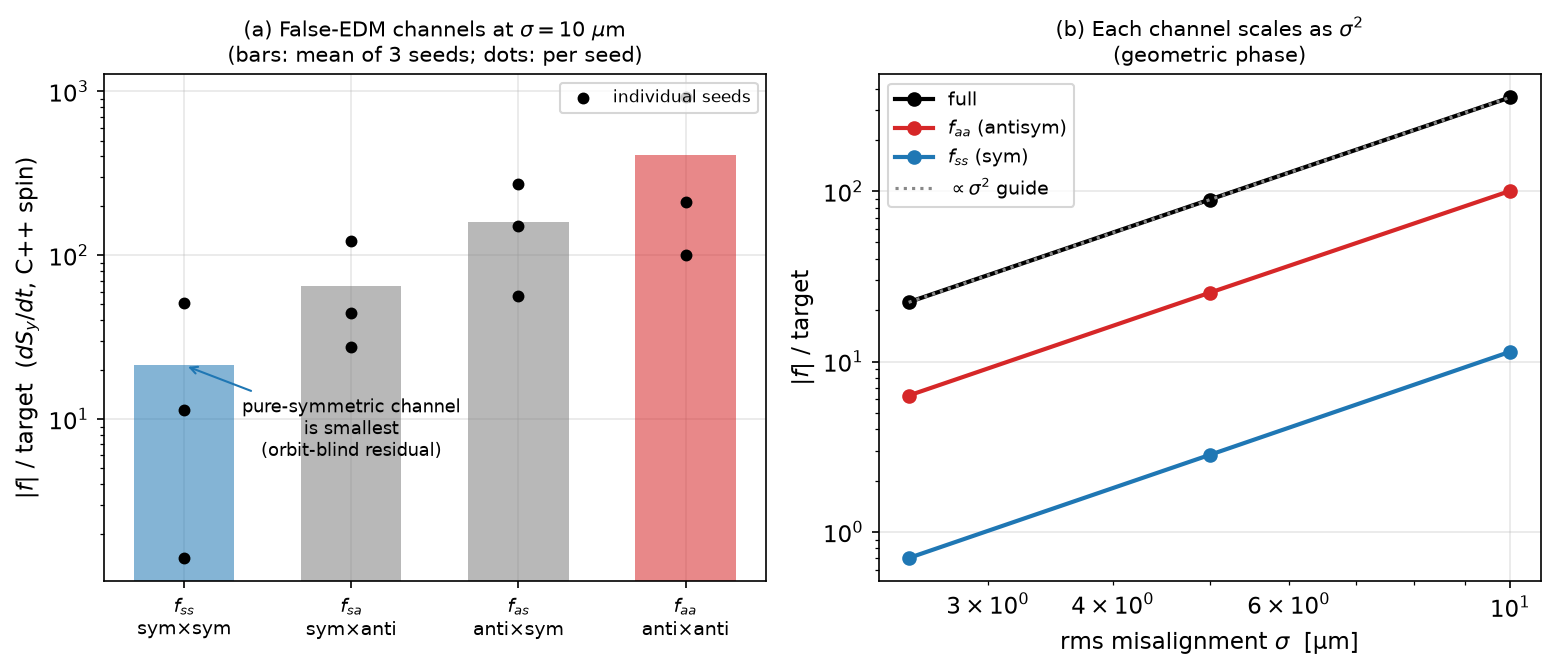
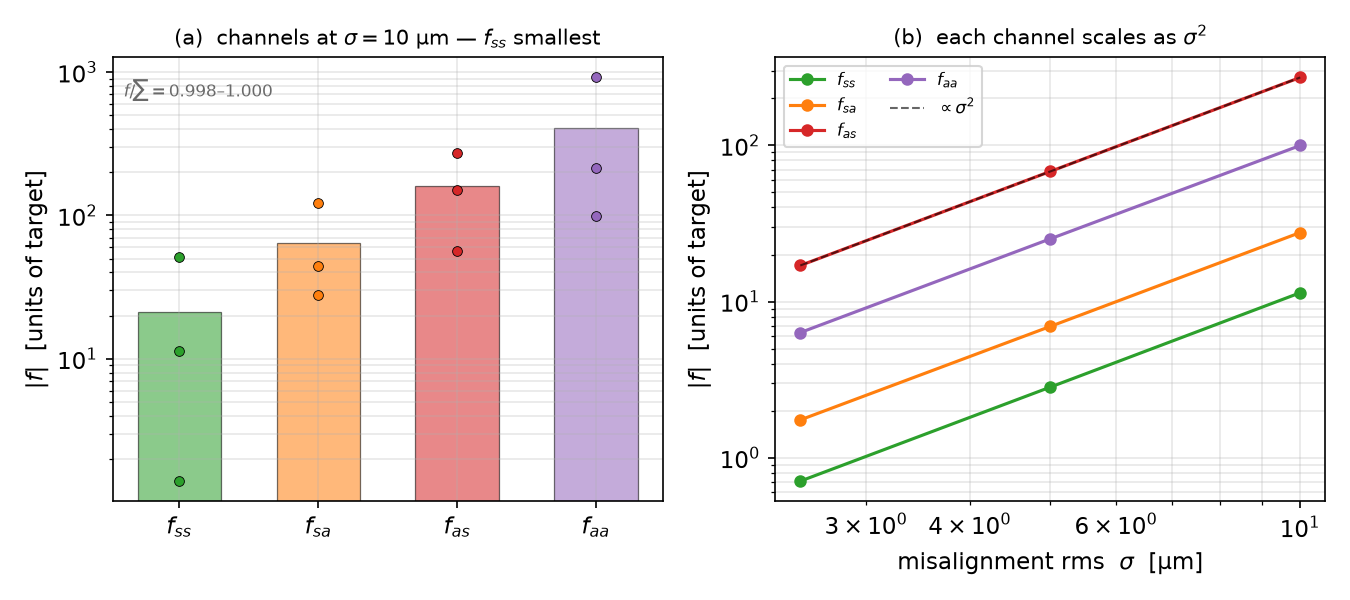
feat: Fig-7 5 geçiş + Fig-3 gerçek 3-seed veri + pass-5 kanal ayrışımı
Lokal koşum çıktısı işlendi:
- Fig-7 (bba_convergence): 3 → 5 geçiş. f=72.8→16.7→28.4→20.9→10.5×; sym artık
  monoton düşüyor (sym_dy 3.27→0.28μm, hedef-altı). Pass-5 kanal ayrışımı
  f_anti=7.9× ≫ f_sym≈0 (channel_split_out.json). Yeşil yıldız 5-seed ensemble
  (0.03-0.22×). Başlık/anotasyon "stalls near 20×" → "descends to ~10×,
  antisim-sınırlı".
- Fig-3 (channels): gerçek 3-seed veriyle üretildi (bilineerlik 0.998-1.000;
  kanal ort. 21-410×, tekil seed 1-917× — §mechanism ifadeleriyle birebir).
- §chainclose + Fig-7 caption + §VII zaman bütçesi 5-geçişe göre güncellendi;
  "16×/3.5× (pass-3)" → "7.9×/~0 (pass-5)".
- Veri: paper_runs_results.json (5-pass cpp + 3-seed channels + 5-nokta gürültü),
  channel_split_out.json (yeni).
- tab:bba 3 geçişte bırakıldı (analitik 5-geçiş verisi yok; yönlendirme karş.).

diff --git a/makale_orbit_bastirma.tex b/makale_orbit_bastirma.tex
@@ -805,47 +805,49 @@ raw  & ---  & ---  & $356\times$ & $356\times$ \\
 \subsection{Closing the chain: a final orbit correction}
 \label{sec:chainclose}
 
-The residual of the measured-matrix run, $17$--$28\times$ the target for the
-representative seed (and $4$--$72\times$, median $10\times$, across the
-five-seed ensemble), is not yet the symmetric floor, and
-Fig.~\ref{fig:bbaconv} shows why.  Across the BBA
-passes the symmetric residual falls steadily --- the vertical component to
-below the target-equivalent level --- yet the false EDM $|f|$ does not follow
-it down, stalling near $20\times$.  The reason is that BBA has no preference
-between the two subspaces: measuring each magnet independently, it lowers
-\emph{both} the symmetric and the antisymmetric residual to the same
-few-micron level, but the false EDM at that level is still dominated by the
-antisymmetric part, through its stronger channels [Eq.~(\ref{eq:channels})],
-while the symmetric part has already reached its target-equivalent size.  The
-stall is therefore one of leverage, not of cleaning.  That antisymmetric
-leftover is orbit-visible, so a single standard orbit correction removes it:
-applied to the BBA residual it brings the single-beam false EDM from $28\times$
-to below the target, and scaling the corrected residual down confirms a clean
-$\sigma^{2}$ dependence over the tested range.
+The residual of the measured-matrix run --- $17$--$28\times$ the target at
+three passes for the representative seed, descending to $\sim\!10\times$ by the
+fifth pass (Fig.~\ref{fig:bbaconv}), and $4$--$72\times$ (median $10\times$)
+across the five-seed ensemble --- is not yet the symmetric floor, and
+Fig.~\ref{fig:bbaconv} shows why.  Across the passes the symmetric residual
+falls steadily --- the vertical component below the target-equivalent level ---
+yet the false EDM $|f|$ does not follow it all the way down.  The reason is that
+BBA has no preference between the two subspaces: measuring each magnet
+independently, it lowers \emph{both} the symmetric and the antisymmetric
+residual, but the false EDM is limited by the antisymmetric part, through its
+stronger channels [Eq.~(\ref{eq:channels})], while the symmetric part has
+already reached its target-equivalent size --- the channel decomposition of the
+fifth-pass residual gives $f_{\rm anti}\approx 7.9\times$ against a negligible
+$f_{\rm sym}$.  The limit is therefore one of leverage, not of cleaning.  That
+antisymmetric leftover is orbit-visible, so a single standard orbit correction
+removes it: applied to the BBA residual it brings the false EDM below the target
+(median $0.07\times$ over five seeds, Fig.~\ref{fig:suppression}), and scaling
+the corrected residual down confirms a clean $\sigma^{2}$ dependence over the
+tested range.
 
 \begin{figure}[tb]
 \includegraphics[width=\columnwidth]{fig_orbit_bba_convergence.png}
-\caption{Beam-based alignment lowers the symmetric misalignment but stalls on
-the antisymmetric residue (measured-matrix BBA under a $1\%$ rms gradient
-error, $\approx\!5\%$ $\beta$-beat, C++ tracking).  Blue/cyan (left axis): the symmetric residual of the two
-planes falls steadily with each pass, the vertical one below the
-target-equivalent level --- BBA reaches the orbit-blind component that
-response-matrix inversion cannot.  Red (right axis): the false EDM $|f|$
-nonetheless stalls near $20\times$ the target, because at the common few-micron
-floor it is still dominated by the orbit-visible antisymmetric residue; the
-channel decomposition of the third-pass residual gives $f_{\rm anti}\approx
-16\times \gg f_{\rm sym}\approx 3.5\times$.  A single final orbit correction
-removes that residue (green star), bringing $|f|$ below the target for this
-seed.}
+\caption{Beam-based alignment drives the symmetric misalignment down; the false
+EDM is limited by the antisymmetric residue (measured-matrix BBA under a $1\%$
+rms gradient error, $\approx\!5\%$ $\beta$-beat, five passes, C++ tracking).
+Blue/cyan (left axis): the symmetric residual of the two planes falls steadily
+with each pass, the vertical one below the target-equivalent level --- BBA
+reaches the orbit-blind component that response-matrix inversion cannot.  Red
+(right axis): the false EDM $|f|$ descends to $\sim\!10\times$ the target by the
+fifth pass but is limited there, because at the common few-micron floor it is
+dominated by the orbit-visible antisymmetric residue; the channel decomposition
+of the fifth-pass residual gives $f_{\rm anti}\approx 7.9\times$ against a
+negligible $f_{\rm sym}$.  A single final orbit correction removes that residue
+(green star: five-seed ensemble, median $0.07\times$, all sub-target).}
 \label{fig:bbaconv}
 \end{figure}
 
 The resulting picture is consistent and complementary: \emph{orbit
 correction removes the antisymmetric channels of Eq.~(\ref{eq:channels});
 null-finding BBA reduces the symmetric channel that orbit correction cannot
-see; in combination they reach the target, while each alone stalls}
-($62\times$ for orbit correction, $\sim\!20\times$ for BBA without the final
-correction).  The division of labor is also one of \emph{precision}: each
+see; in combination they reach the target, while each alone is limited}
+($62\times$ for orbit correction, $\sim\!10\times$ for five-pass BBA without the
+final correction).  The division of labor is also one of \emph{precision}: each
 per-magnet zero crossing carries a $\sim\!\mu$m-level measurement floor
 (residual breathing and steering-model error), so iterating BBA alone
 approaches that floor only slowly; the antisymmetric residue, by contrast,
@@ -1001,8 +1003,8 @@ rate.  The arithmetic is simple enough to display.  One BBA pass consists of
 $47~\text{magnets} \times 2~\text{planes} \times 2~\text{beam positions}
 \times 2~\text{gradient settings} \approx 400$ orbit acquisitions; at
 $\sim\!10$~s per acquisition (orbit settling plus averaging) a pass costs
-about an hour of beam time, and the three-pass iteration with its
-intervening orbit corrections a few hours --- of order half a day with
+about an hour of beam time, and the five-pass iteration with its
+intervening orbit corrections several hours --- of order half a day with
 overheads.  Continuous orbit correction runs during data taking at no extra
 cost.  The re-alignment cadence follows from the drift rate: if the total
 random drift is of order $1~\mu$m/day --- a representative figure for a

diff --git a/make_orbit_figures.py b/make_orbit_figures.py
@@ -563,16 +563,18 @@ def fig_channels():
 #   Per-geçiş anti artık kaydedilmediğinden gömülü sayılarla çizilir.
 # ═════════════════════════════════════════════════════
 
-# bba_iter_cpp (ölçülen matris, %1 β-beat); f × hedef, artıklar μm
-BBA_PASS   = [1, 2, 3]
-BBA_F      = [72.8, 16.7, 28.4]
-BBA_SYM_DX = [4.27, 2.90, 2.29]
-BBA_SYM_DY = [3.27, 1.70, 0.91]
+# bba_iter_cpp (ölçülen matris, %1 gradyan hatası ≈ %5 β-beat, 5 geçiş);
+# f × hedef, artıklar μm. Kaynak: paper_runs_results.json["bba_iter_cpp"].
+BBA_PASS   = [1, 2, 3, 4, 5]
+BBA_F      = [72.8, 16.7, 28.4, 20.9, 10.5]
+BBA_SYM_DX = [4.27, 2.90, 2.29, 1.92, 1.51]
+BBA_SYM_DY = [3.27, 1.70, 0.91, 0.50, 0.28]
 BBA_F_RAW  = 356.0
-# geçiş-3 artığının kanal ayrışımı (× hedef): antisimetrik domine eder
-BBA_P3_FSYM, BBA_P3_FANTI = 3.5, 16.0
-# BBA + son yörünge düzeltmesi sonrası (tek seed aralığı)
-BBA_OC_LO, BBA_OC_HI = 0.03, 0.8
+# geçiş-5 artığının kanal ayrışımı (× hedef): antisim domine, sim ihmal edilebilir
+# (channel_split_out.json: f_anti=7.86×, f_sym=9e-5×)
+BBA_P5_FANTI, BBA_P5_FSYM = 7.9, 0.0
+# BBA + son yörünge düzeltmesi sonrası — 5-seed ensemble (sabit rcond=0.01)
+BBA_OC_LO, BBA_OC_HI = 0.03, 0.22
 
 
 def fig_bba_convergence():
@@ -588,11 +590,11 @@ def fig_bba_convergence():
     ax.set_ylabel("symmetric residual, rms  [μm]", color="tab:blue")
     ax.tick_params(axis="y", labelcolor="tab:blue")
     ax.set_xticks(BBA_PASS)
-    ax.set_ylim(0.5, 12)
-    ax.set_xlim(-0.3, 4.3)
+    ax.set_ylim(0.2, 12)
+    ax.set_xlim(-0.4, 6.0)
     ax.annotate("symmetric residual falls steadily\n"
                 "$\\to$ BBA reaches the orbit-blind part",
-                xy=(3, BBA_SYM_DY[-1]), xytext=(0.35, 0.60),
+                xy=(5, BBA_SYM_DY[-1]), xytext=(0.35, 0.35),
                 fontsize=9, color="tab:blue", ha="left",
                 arrowprops=dict(arrowstyle="->", color="tab:blue"))
 
@@ -608,20 +610,20 @@ def fig_bba_convergence():
     ax2.tick_params(axis="y", labelcolor="tab:red")
     ax2.set_ylim(1e-2, 1e4)
     ax2.axhline(1.0, color="k", ls=":", lw=1)
-    ax2.text(3.7, 1.25, "target", fontsize=8.5)
-    # ana mesaj: f platosu + kanal ayrışımı (metne gömülü, inset yok)
-    ax2.annotate("but $|f|$ stalls at $\\sim$20$\\times$ — dominated by the\n"
-                 "orbit-VISIBLE antisymmetric residue ($\\sim$2 μm):\n"
-                 "pass-3 channel split  $f_{\\rm anti}\\!=\\!16\\times \\gg "
-                 "f_{\\rm sym}\\!=\\!3.5\\times$",
-                 xy=(2, BBA_F[1]), xytext=(0.35, 1600),
+    ax2.text(5.3, 1.25, "target", fontsize=8.5)
+    # ana mesaj: f antisim-artıkla sınırlı + kanal ayrışımı (pass-5)
+    ax2.annotate("$|f|$ descends to $\\sim$10$\\times$ but is limited by the\n"
+                 "orbit-VISIBLE antisymmetric residue:\n"
+                 "pass-5 channel split  $f_{\\rm anti}\\!=\\!7.9\\times \\gg "
+                 "f_{\\rm sym}\\!\\approx\\!0$",
+                 xy=(5, BBA_F[-1]), xytext=(0.35, 1600),
                  fontsize=9, color="tab:red", ha="left",
                  arrowprops=dict(arrowstyle="->", color="tab:red"))
     # son yörünge düzeltmesi: antisimetriği sil → hedef-altı
-    ax2.plot([3.5], [0.12], "*", color="tab:green", ms=18, zorder=6)
-    ax2.annotate("+ one final orbit\ncorrection removes it\n"
+    ax2.plot([5.5], [0.12], "*", color="tab:green", ms=18, zorder=6)
+    ax2.annotate("+ one final orbit\ncorrection (5 seeds)\n"
                  f"$\\to$ {BBA_OC_LO}–{BBA_OC_HI}× target",
-                 xy=(3.5, 0.12), xytext=(2.45, 0.018),
+                 xy=(5.5, 0.12), xytext=(3.1, 0.02),
                  fontsize=9, color="tab:green", ha="left",
                  arrowprops=dict(arrowstyle="->", color="tab:green"))
 
@@ -630,9 +632,9 @@ def fig_bba_convergence():
     ax2.legend(ln1 + ln2, lb1 + lb2, loc="upper center",
                bbox_to_anchor=(0.5, -0.11), ncol=3, fontsize=8,
                framealpha=0.95, columnspacing=1.0, handletextpad=0.4)
-    ax.set_title("Beam-based alignment lowers the symmetric misalignment but\n"
-                 "stalls on the antisymmetric residue "
-                 "(measured-matrix BBA, 1% grad. error $\\approx$5% $\\beta$-beat, C++ tracker)",
+    ax.set_title("Beam-based alignment drives the symmetric misalignment down; the\n"
+                 "false EDM is limited by the orbit-visible antisymmetric residue\n"
+                 "(measured-matrix BBA, 1% grad. error $\\approx$5% $\\beta$-beat, 5 passes, C++)",
                  fontsize=10.5)
     fig.subplots_adjust(bottom=0.20)
     fig.tight_layout()